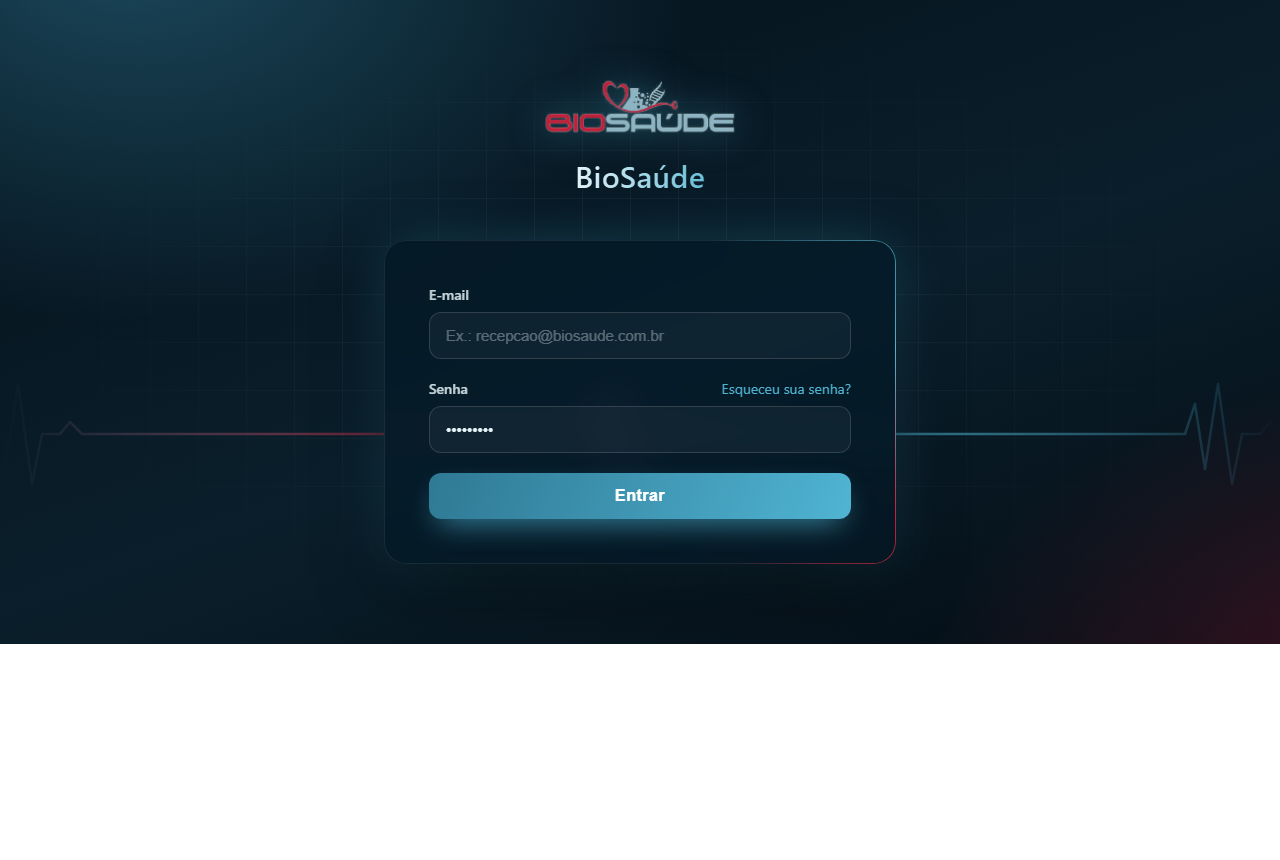
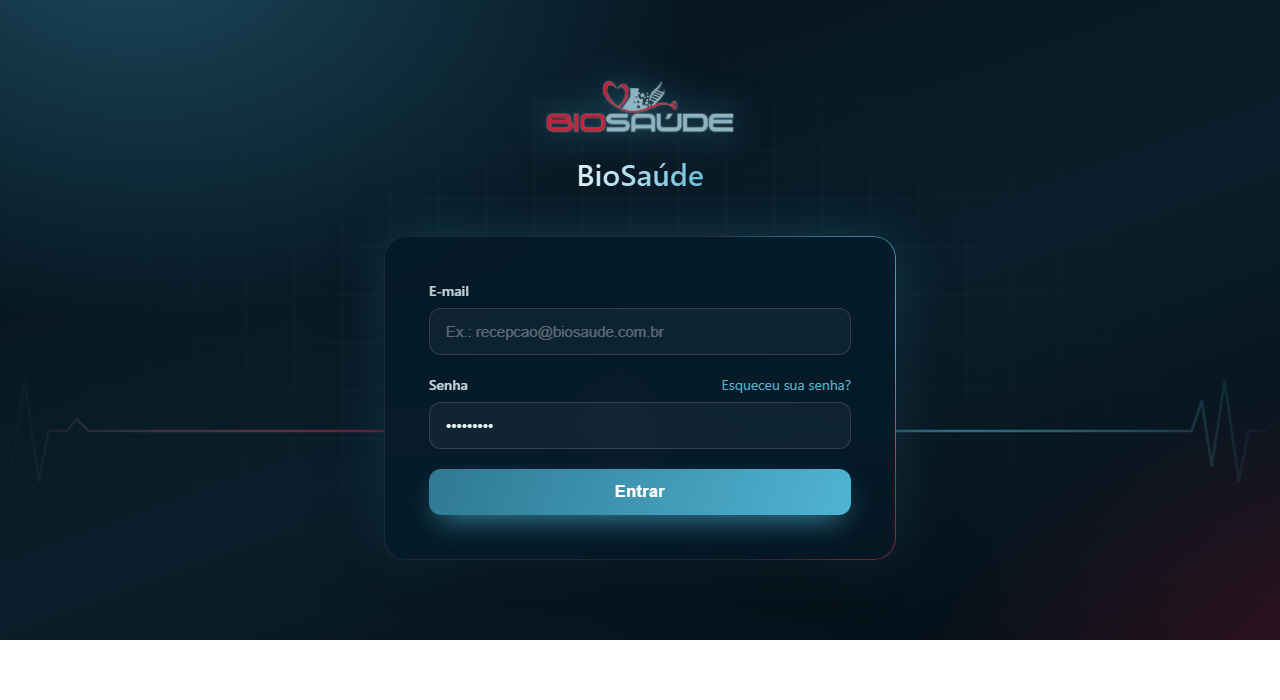
Tema do painel na cor da marca e título do login por CSS

diff --git a/branding/public/brand-assets/theme.css b/branding/public/brand-assets/theme.css
@@ -1,0 +1,2 @@
+:root{--bs-primary:#0B5C7A;--bs-glow:#12A4A8;--bs-accent:#E53935;--bs-title:"Hospital Mandalore Login";--blue-1:250 252 252;--blue-2:243 247 248;--blue-3:231 239 242;--blue-4:216 229 234;--blue-5:196 216 223;--blue-6:174 201 211;--blue-7:145 182 195;--blue-8:104 154 173;--blue-9:11 92 122;--blue-10:10 83 110;--blue-11:9 75 100;--blue-12:4 37 49;}
+.dark{--blue-1:10 25 34;--blue-2:10 30 40;--blue-3:10 36 48;--blue-4:10 42 55;--blue-5:10 49 65;--blue-6:11 56 75;--blue-7:11 64 85;--blue-8:11 76 100;--blue-9:11 92 122;--blue-10:35 108 135;--blue-11:121 165 182;--blue-12:206 222 228;--background-color:26 35 41;--solid-1:22 30 36;--solid-2:27 36 45;--solid-3:41 50 61;}

diff --git a/branding/login.css b/branding/login.css
@@ -1,4 +1,4 @@
-/* Tela de login. As cores (--bs-primary, --bs-glow, --bs-accent) são prefixadas no build. */
+/* Tela de login. As cores e o título (--bs-*) vêm do theme.css gerado por generate.py. */
 
 @property --bs-angle {
   syntax: '<angle>';
@@ -65,6 +65,12 @@ main.min-h-screen:has(input[type='password']) > section:first-child h2 {
   color: transparent !important;
   font-weight: 600 !important;
   letter-spacing: 0.01em;
+  font-size: 0 !important;
+}
+main.min-h-screen:has(input[type='password']) > section:first-child h2::after {
+  content: var(--bs-title);
+  font-size: 1.875rem;
+  line-height: 2.25rem;
 }
 
 /* cartão de vidro com borda girando */

diff --git a/branding/generate.py b/branding/generate.py
@@ -30,6 +30,10 @@ LOGO_MAIN = os.environ.get("BRAND_LOGO_MAIN", "Mandalore")
 TOP = rgb(os.environ.get("BRAND_COLOR_TOP", "#12A4A8"))
 BOTTOM = rgb(os.environ.get("BRAND_COLOR_BOTTOM", "#0B5C7A"))
 BADGE = rgb(os.environ.get("BRAND_COLOR_BADGE", "#E53935"))
+PRIMARY = rgb(os.environ.get("LOGIN_PRIMARY", "#0B5C7A"))
+GLOW = rgb(os.environ.get("LOGIN_GLOW", "#12A4A8"))
+ACCENT = rgb(os.environ.get("LOGIN_ACCENT", "#E53935"))
+TITLE = os.environ.get("LOGIN_TITLE", "Hospital Mandalore Login")
 FONT = "/usr/share/fonts/truetype/dejavu/DejaVuSans-Bold.ttf"
 
 OUT = Path(__file__).parent / "public"
@@ -190,8 +194,40 @@ def on_background(img, bg):
     return canvas
 
 
+def mix(a, b, t):
+    return tuple(round(x + (y - x) * t) for x, y in zip(a, b))
+
+
+def triplet(c):
+    return " ".join(str(v) for v in c)
+
+
+def theme_css():
+    """Escala --blue-* do Chatwoot (cor de destaque do painel) na cor da marca e fundo do tema escuro."""
+    white, black, night = (255, 255, 255), (0, 0, 0), (10, 18, 24)
+    light = [mix(white, PRIMARY, t) for t in (0.02, 0.05, 0.10, 0.16, 0.24, 0.33, 0.45, 0.62)]
+    light += [PRIMARY, mix(PRIMARY, black, 0.10), mix(PRIMARY, black, 0.18), mix(PRIMARY, black, 0.60)]
+    dark = [mix(night, PRIMARY, t) for t in (0.10, 0.16, 0.24, 0.32, 0.42, 0.52, 0.62, 0.78)]
+    dark += [PRIMARY, mix(PRIMARY, white, 0.10), mix(PRIMARY, white, 0.45), mix(PRIMARY, white, 0.80)]
+
+    def scale(colors):
+        return "".join(f"--blue-{i}:{triplet(c)};" for i, c in enumerate(colors, 1))
+
+    bg = {name: mix(base, PRIMARY, 0.10) for name, base in (
+        ("background-color", (28, 29, 32)), ("solid-1", (23, 23, 26)),
+        ("solid-2", (29, 30, 36)), ("solid-3", (44, 45, 54)))}
+    dark_bg = "".join(f"--{k}:{triplet(v)};" for k, v in bg.items())
+    title = TITLE.replace("\\", "\\\\").replace('"', '\\"')
+    return (f':root{{--bs-primary:{hexcolor(PRIMARY)};--bs-glow:{hexcolor(GLOW)};'
+            f'--bs-accent:{hexcolor(ACCENT)};--bs-title:"{title}";{scale(light)}}}\n'
+            f".dark{{{scale(dark)}{dark_bg}}}\n")
+
+
 def main():
     ASSETS.mkdir(parents=True, exist_ok=True)
+    (ASSETS / "theme.css").write_text(theme_css(), encoding="utf-8")
+    (Path(__file__).parent / "brand.env").write_text(
+        f'BRAND_RGB="{triplet(PRIMARY)}"\nBRAND_HEX="{hexcolor(PRIMARY)}"\n', encoding="utf-8")
 
     logo_file = os.environ.get("BRAND_LOGO_FILE")
     if logo_file:

diff --git a/branding/README.md b/branding/README.md
@@ -172,7 +172,17 @@ Marca, cores, título do login e versão do Chatwoot ficam no bloco `env:` do wo
 
 ### Tela de login
 
-`login.css` dá à tela de login fundo escuro com grade e linha de batimento cardíaco animadas, cartão de vidro com borda luminosa girando, campos com brilho no foco e botão com reflexo. O build prefixa as cores (`LOGIN_PRIMARY`, `LOGIN_GLOW`, `LOGIN_ACCENT`), grava o arquivo em `/brand-assets/login.css` e liga no `<head>` de `app/views/layouts/vueapp.html.erb` (o build falha se o layout mudar). Os seletores pegam só a página com campo de senha (`main.min-h-screen:has(input[type=password])`): login, nova senha e cadastro. Com "reduzir movimento" ligado no sistema, as animações param.
+`login.css` dá à tela de login fundo escuro com grade e linha de batimento cardíaco animadas, cartão de vidro com borda luminosa girando, campos com brilho no foco e botão com reflexo. O título vem de `--bs-title` (`LOGIN_TITLE`) por CSS, então não depende do JavaScript em cache no navegador.
+
+### Painel (todas as telas)
+
+`generate.py` grava `public/brand-assets/theme.css` e `brand.env` a partir de `LOGIN_PRIMARY`, `LOGIN_GLOW`, `LOGIN_ACCENT` e `LOGIN_TITLE`:
+
+- escala `--blue-1` a `--blue-12` do Chatwoot na cor da marca (abas ativas, links, seleção, destaques);
+- fundo do tema escuro (`--background-color`, `--solid-1` a `--solid-3`) puxado levemente para a cor da marca;
+- variáveis `--bs-*` usadas pelo `login.css`.
+
+No build, o azul padrão compilado no CSS do Chatwoot (`#2781F6` / `39 129 246`, usado em botões e `n-brand`) é trocado pela cor da marca; `theme.css` e `login.css` viram `/brand-assets/brand.css`, ligado no `<head>` de `app/views/layouts/vueapp.html.erb` (o build falha se o layout mudar). Quem já tinha aberto o Chatwoot antes precisa de um Ctrl+Shift+R uma vez, porque os arquivos do Chatwoot mantêm o nome e ficam em cache. Os seletores pegam só a página com campo de senha (`main.min-h-screen:has(input[type=password])`): login, nova senha e cadastro. Com "reduzir movimento" ligado no sistema, as animações param.
 
 ![Login BioSaúde](preview/login-biosaude.png)
 
